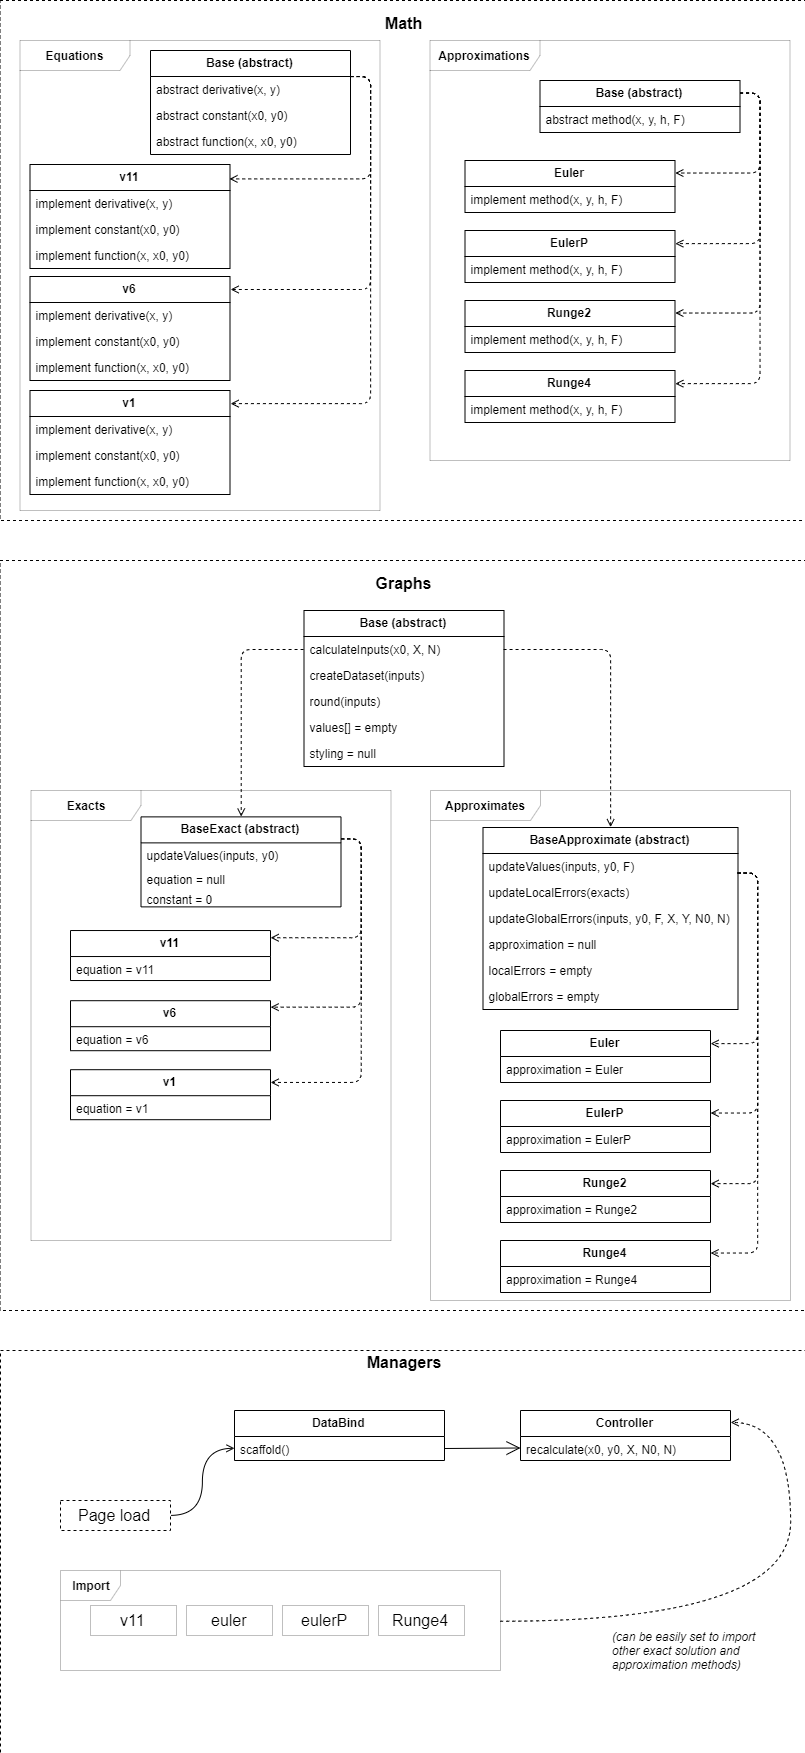
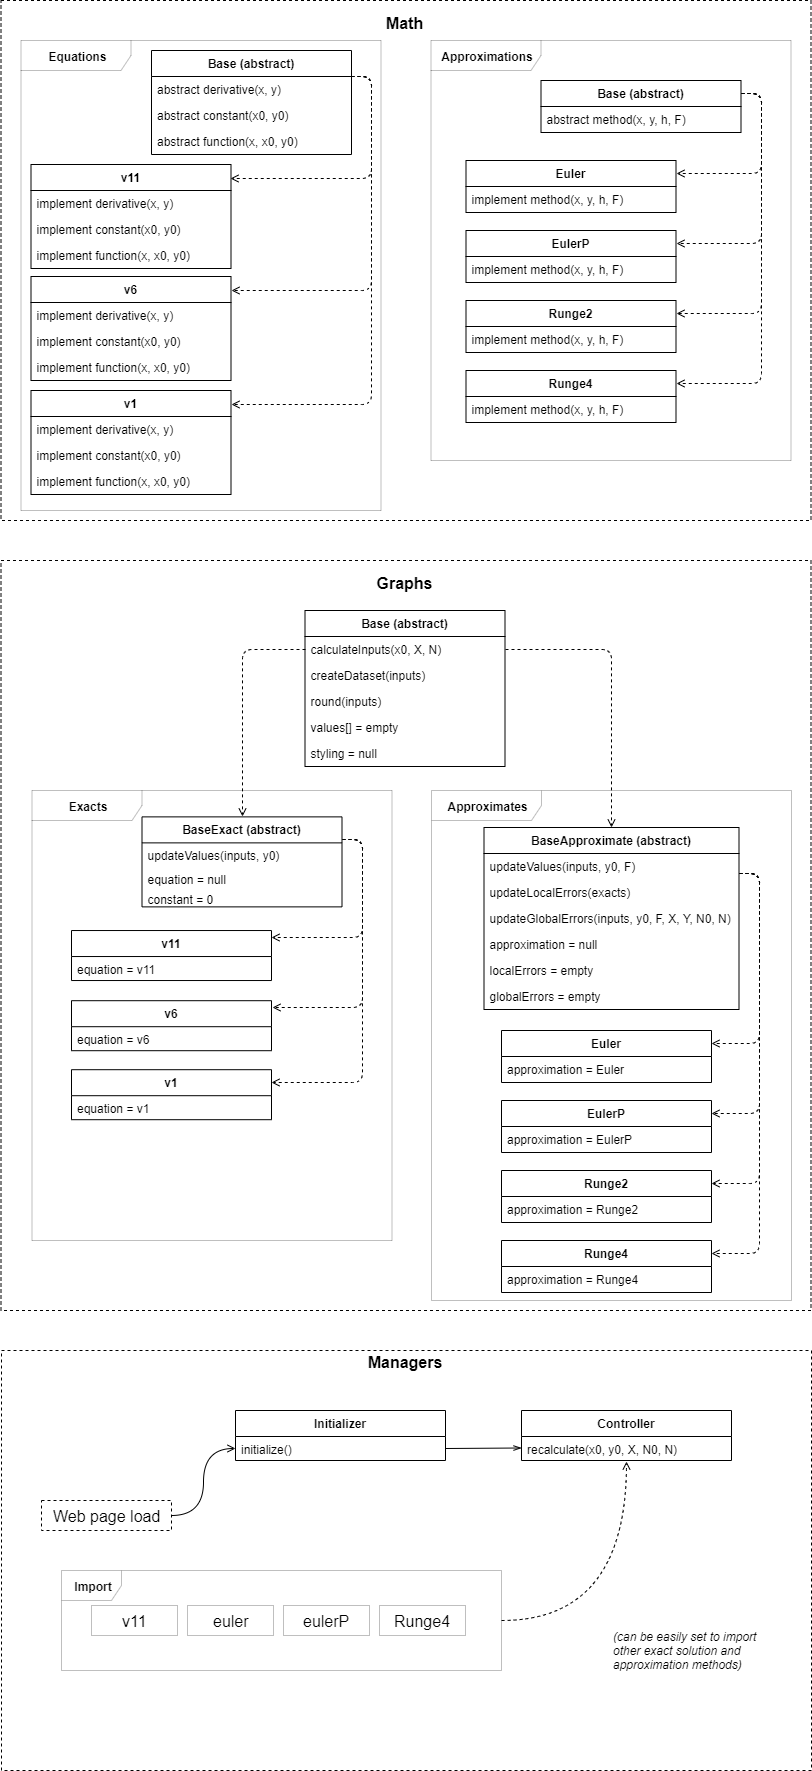
Update resources

diff --git a/README.tex.md b/README.tex.md
@@ -127,7 +127,7 @@ The application was developed as a web page with JavaScript implemented logic. A
 
 - managers
   - conroller
-  - dataBind
+  - initializer
 - math classes
   - appromixations
   - equations
@@ -139,7 +139,7 @@ Most importantly, an attempt was made to generalizing framework both *equations*
 
 ### 3.1 Managers
 
-**DataBind.js** module provides scaffolding functoinality by assigning callbacks to UI input fields changes that will trigger mathematical recomputations. It also provides interfaces for accessing html elements needed to be referenced for output during computation and plotting.
+**Initializer.js** module provides setup functoinality by assigning callbacks to UI input fields changes that will trigger mathematical recomputations. It also provides interfaces for accessing html elements needed to be referenced for output during computation and plotting and assigns common chart options.
 
 **Controller.js** module accepts 5 inputs and then passes them into exported exact solution and approxmaions. After all the computations are finished it draws graphs using resulting arrays of values.
 
